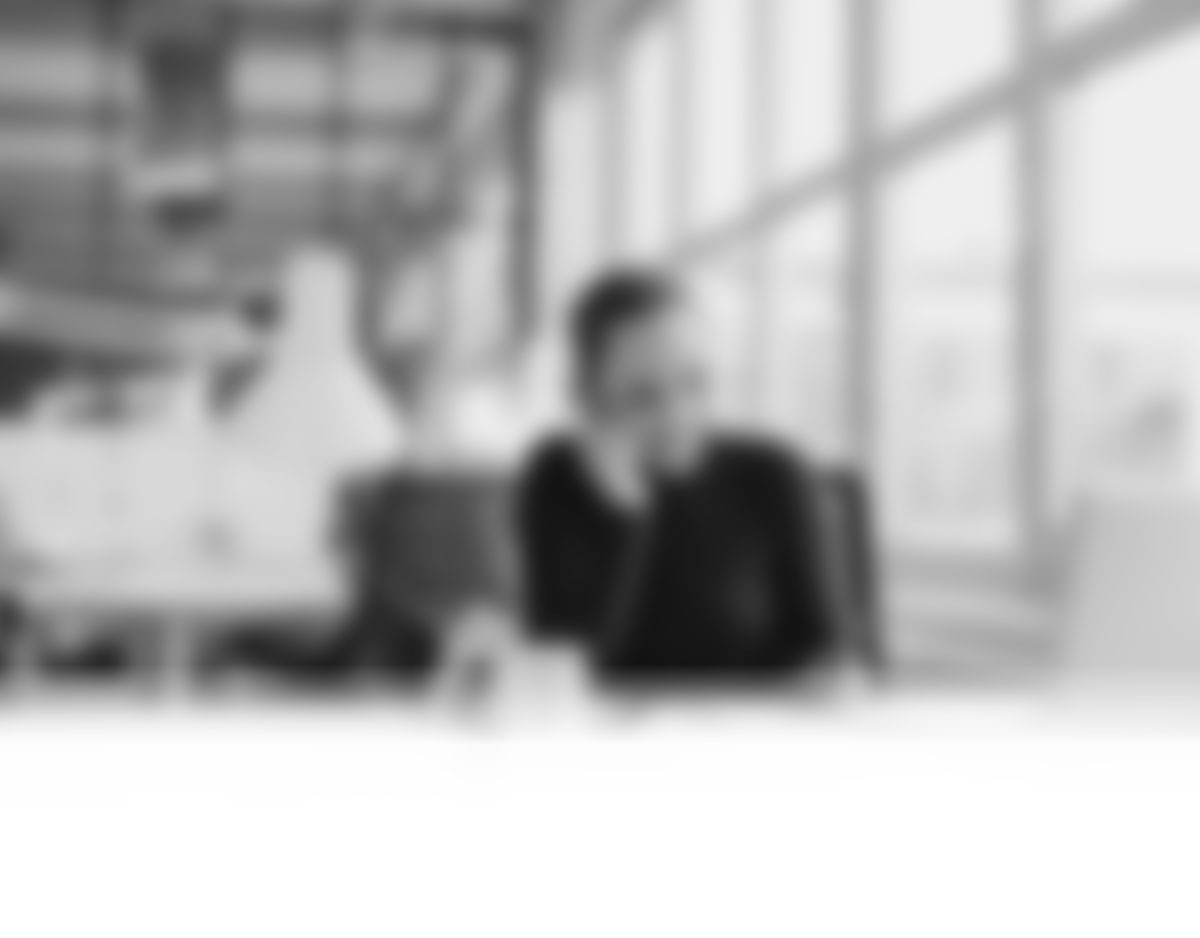
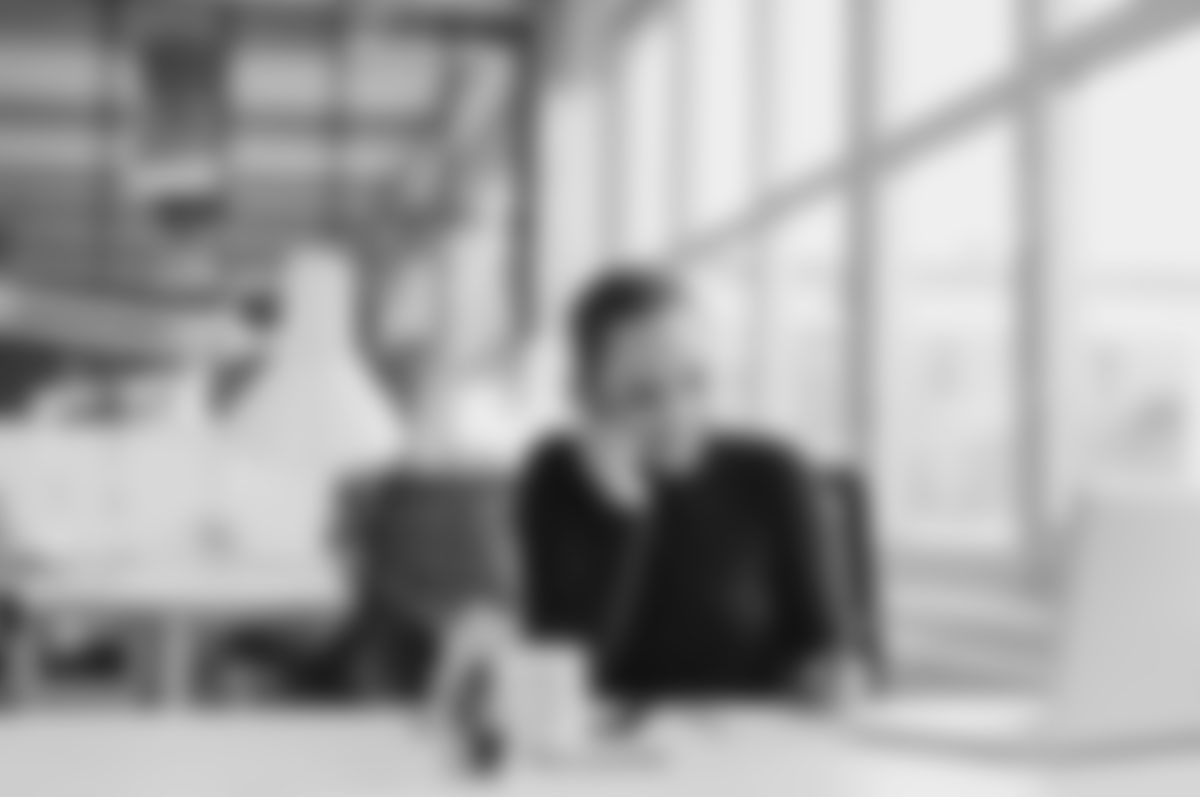
More styling, nav done

diff --git a/src/components/FinishQuestionnaire.vue b/src/components/FinishQuestionnaire.vue
@@ -1,23 +1,17 @@
 <template>
-  <section id="finish-questionnaire" class="finish-questionnaire section">
+  <section id="finish-questionnaire" :class="['finish-questionnaire', 'section', !formData.finishSection.submitted ? 'margin': null]">
     <IntroSubSection header="Finishing Up" subHeader="Finishing Up">
       <p slot="en" class="sub-section__intro">Your insights and opinions help us do a better job. Together we can create the ideal showcase for your business! We appreciate your input. Feel free to review your answers and make any necessary changes. Once complete, click the "Complete Questionionnaire" button. This form will be added to your file as we prepare for your phone consultation.</p>
     </IntroSubSection>
-    <div v-if="!formData.finishSection.submitted" class="sub-section">
-      <label for="repNames" class="form-field__label">
-        <div>
-          <p v-if="true" class="form-field__question">Please select your Fulfillment Representative</p>
-        </div>
-        <select v-model="selectedRep" @change="emitFieldData('rep', selectedRep)" name="repNames" id="repNames">
-          <option v-for="rep of repNames" :value="rep[0]">{{ rep[1] }}</option>
-        </select>
-      </label>
-      <input v-if="selectedRep !== ''" type="submit" value="Complete Questionnaire" class="form-button">
+    <div v-if="!formData.finishSection.submitted" class="submit-section">
+      <input type="submit" value="Complete Questionnaire" class="button">
     </div>
     <div v-if="formData.finishSection.submitted" class="sub-section">
       <h3 class="sub-section__header">Thank You</h3>
-      <p class="sub-section__intro">If you’re looking for more helpful hints on the website design process, please review the following YP document:<a class="button" href="#" target="_blank">Welcome to Your Website</a></p>
-      <p class="sub-section__intro">To get a better idea of the type of work we do, please click the link below to view YP’s online portfolio. Each site is numbered (e.g. WEB002) and will help your Fulfillment Representative determine your style preferences. Don’t worry about the type of business being featured, just focus on the elements you would like to see incorporated into your site.<br/><a class="button" href="http://www.wss.yellowpages.ca/portfolio/index.html" target="_blank">YP Website Portfolio</a></p>
+      <p class="sub-section__intro">If you’re looking for more helpful hints on the website design process, please review the following YP document:</p>
+      <a class="button" href="#" target="_blank">Welcome to Your Website</a>
+      <p class="sub-section__intro">To get a better idea of the type of work we do, please click the link below to view YP’s online portfolio. Each site is numbered (e.g. WEB002) and will help your Fulfillment Representative determine your style preferences. Don’t worry about the type of business being featured, just focus on the elements you would like to see incorporated into your site.</p>
+      <a class="button" href="http://www.wss.yellowpages.ca/portfolio/index.html" target="_blank">YP Website Portfolio</a>
     </div>
   </section>
 </template>
@@ -39,13 +33,7 @@ export default {
   },
   data () {
     return {
-      repNames: repNames,
-      selectedRep: ''
-    }
-  },
-  methods: {
-    emitFieldData (elem, value) {
-      this.$emit('update', 'finishSection', elem, value)
+      repNames: repNames
     }
   }
 }

diff --git a/static/main.css b/static/main.css
@@ -5,13 +5,13 @@
 
 html * { box-sizing: border-box; }
 body {
-  background: #000 url(./uploads/body-background--device.jpg) center center / cover no-repeat fixed;
+  background: #000 url(./uploads/body-background--device.jpg) center top / cover no-repeat fixed;
   min-height: 100vh;
 }
 
 @media only screen and (min-width: 768px) {
   body {
-    background: #000 url(./uploads/body-background.jpg) center center / cover no-repeat fixed;
+    background: #000 url(./uploads/body-background.jpg) center top / cover no-repeat fixed;
   }
 }
 
@@ -107,6 +107,10 @@ h1, h2, h3, h4, p { margin: 0; }
   padding: 20px 20px 0;
 }
 
+.margin .intro.sub-section {
+  margin-bottom: 0;
+}
+
 @media only screen and (min-width: 1200px) {
   .sub-section.lg {
     display: grid;
@@ -135,6 +139,7 @@ h1, h2, h3, h4, p { margin: 0; }
   .form-field__checkbox-container {
     display: grid;
     grid-template-columns: 1fr 1fr;
+    grid-column-gap: 20px;
   }
   .form-field__checkbox-container > div {
     grid-column: 1 / 3;
@@ -200,7 +205,11 @@ h1, h2, h3, h4, p { margin: 0; }
 .finish-questionnaire a.button {
   text-decoration: none;
   display: inline-block;
-  margin: 20px 0 30px;
+  margin-bottom: 30px;
+}
+
+.finish-questionnaire a.button:last-of-type {
+  margin-bottom: 0;
 }
 
 /***
@@ -219,13 +228,14 @@ h1, h2, h3, h4, p { margin: 0; }
 }
 
 .tab {
-  font-size: 20px;
+  font-size: 18px;
   color: #000;
   font-weight: 600;
   text-transform: uppercase;
-  padding: 5px;
+  padding: 0.5em;
   text-align: center;
   cursor: pointer;
+  position: relative;
 }
 
 .tab.active,
@@ -235,12 +245,49 @@ h1, h2, h3, h4, p { margin: 0; }
 }
 
 @media only screen and (min-width: 1200px) {
+  .tab-navigation {
+    background-color: #000;
+  }
+
   .tab-navigation ul {
     display: flex;
     flex-flow: row nowrap;
+    overflow: hidden;
   }
-  .tab-navigation .tab {
+
+  .tab {
     flex: 1 0 auto;
+    color: #FFF;
+    background-color: #000;
+  }
+
+  .tab.active::after {
+    content: '';
+    position: absolute;
+    top: 0;
+    right: -1.5em;
+    height: 0;
+    width: 0;
+    border-top: 1.25em solid transparent;
+    border-bottom: 1.25em solid transparent;
+    border-right: 0.75em solid transparent;
+    border-left: 0.75em solid #000;
+    z-index: 2;
+  }
+
+  .tab:hover {
+    color: #FFF !important;
+    background-color: #000 !important;
+  }
+
+  .tab:hover ~ .tab,
+  .tab.active ~ .tab {
+    background-color: var(--main-yellow);
+    color: #000;
+  }
+
+  .tab:hover ~ .tab::after {
+    border-left-color: var(--main-yellow);
   }
 }
 
@@ -261,4 +308,10 @@ h1, h2, h3, h4, p { margin: 0; }
   .button-navigation .button {
     min-width: 20%;
   }
+}
+
+/*** Submit section ***/
+.submit-section {
+  background-color: #FFF;
+  padding: 0 20px 30px;
 }

diff --git a/src/components/ExistingPresence.vue b/src/components/ExistingPresence.vue
@@ -31,7 +31,7 @@
         </div>
       </InputText>
     </div>
-    <div v-if="checkSocialVisibility" class="sub-section">
+    <div v-if="checkSocialVisibility" class="sub-section lg">
       <h3 class="sub-section__header">Social Media</h3>
       <p class="sub-section__intro">If possible, please provide URLs</p>
       <InputText
